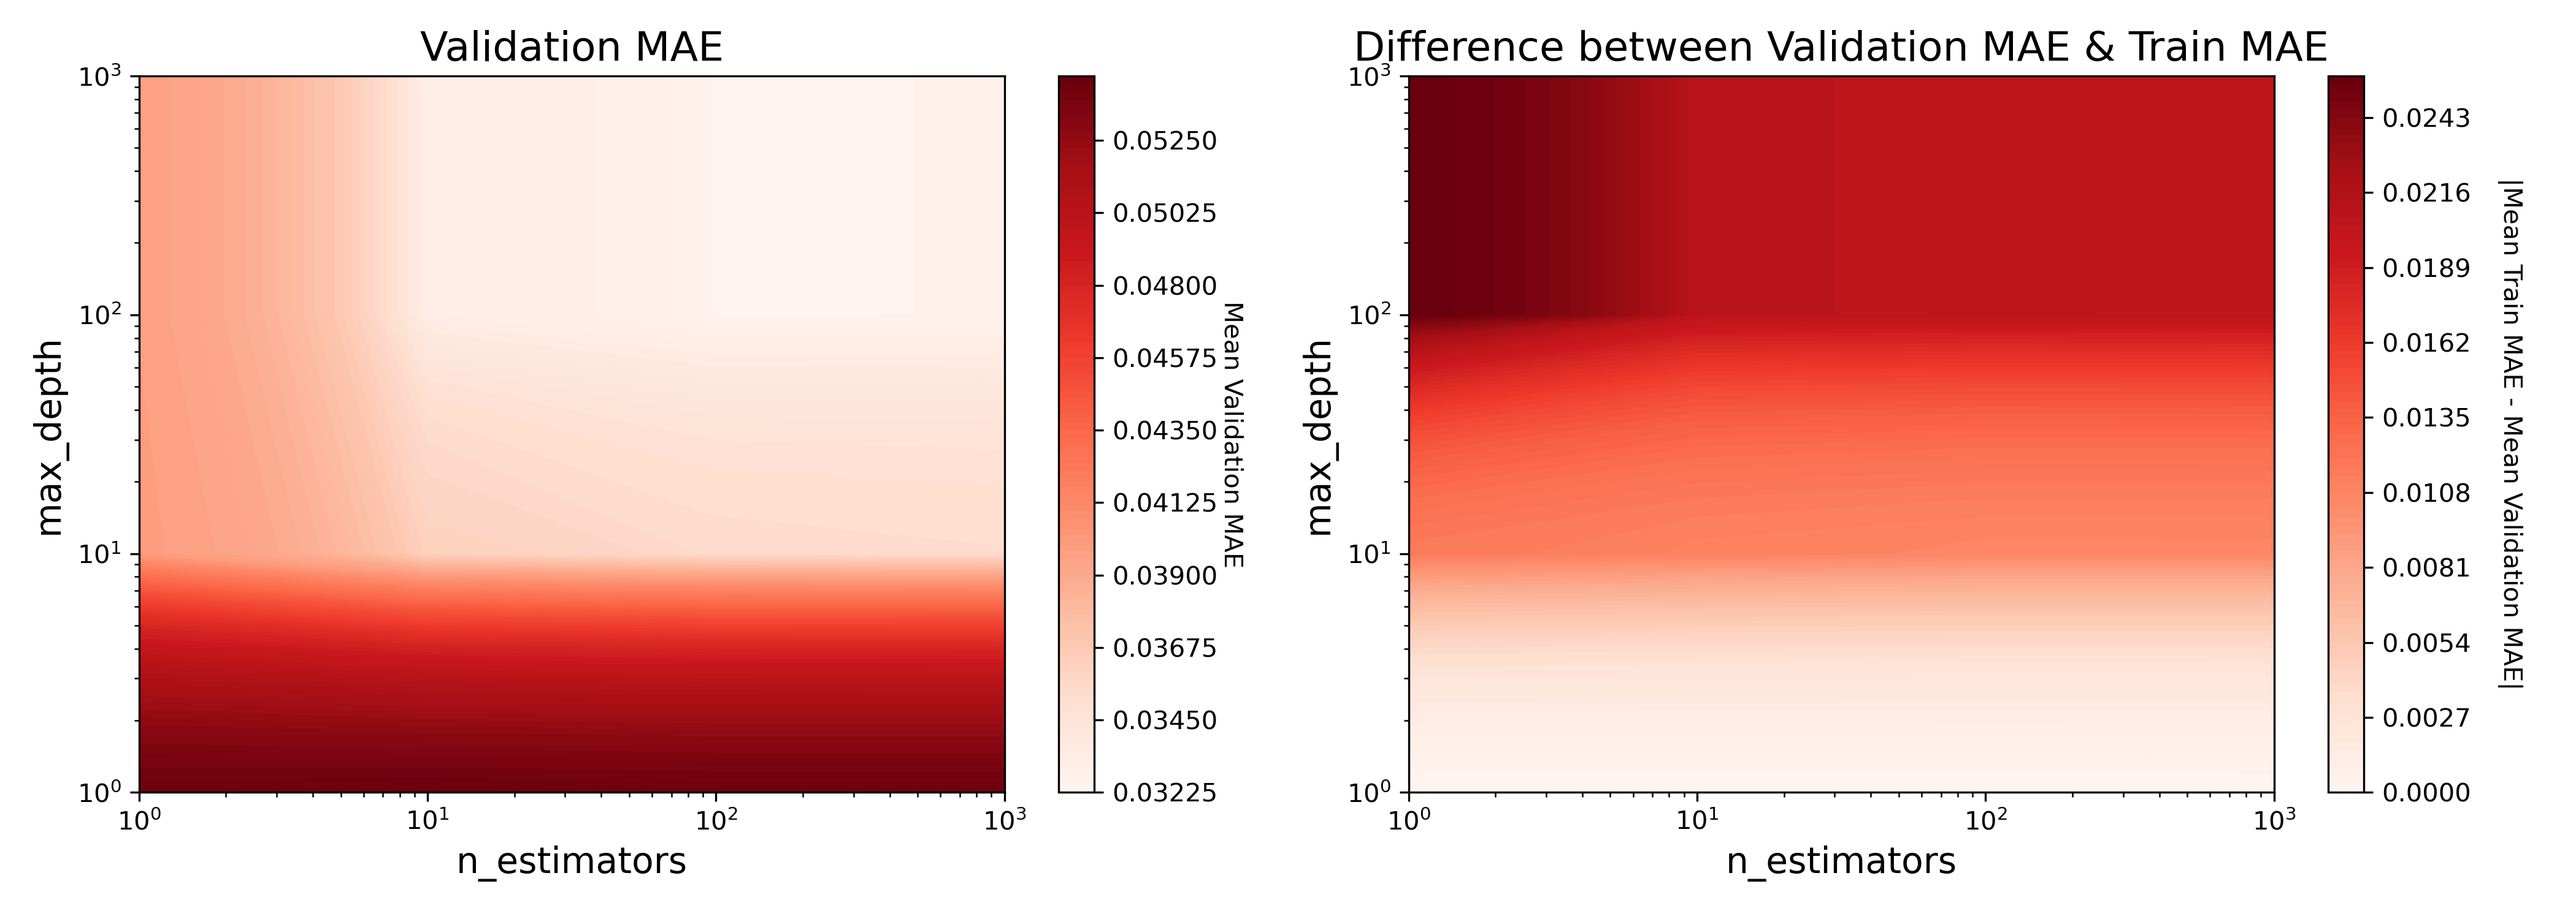
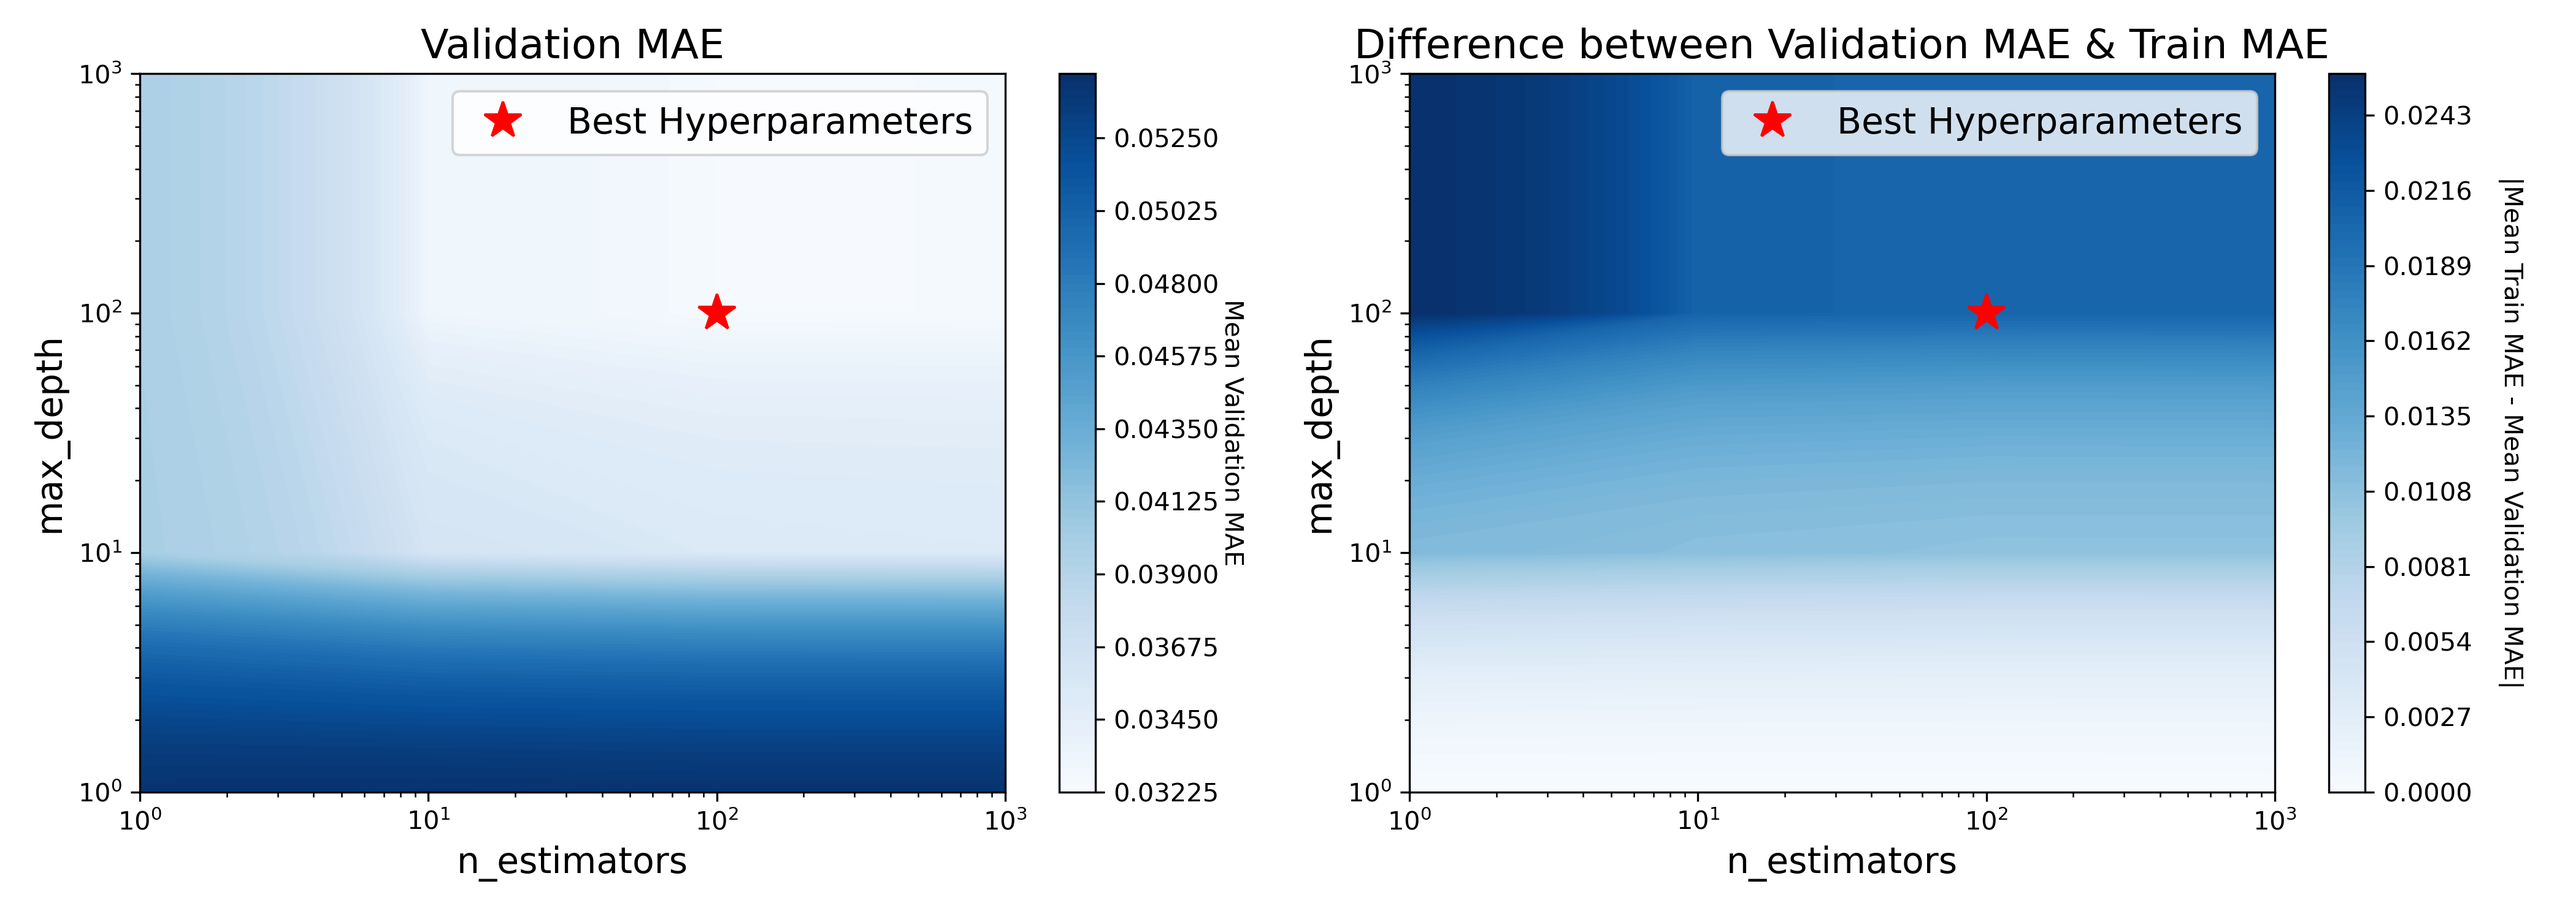
found error in data cleaning (need to exclude bandgap = 0eV)

diff --git a/script4_solarCellSearchTask.py b/script4_solarCellSearchTask.py
@@ -42,6 +42,10 @@ lstFeatureCols_train = dfTrain.columns[intFirstMagpieCol_train:intLastMagpieCol_
 # make the feature set
 dfTrain_x = dfTrain[lstFeatureCols_train]
 print('Training feature set created')
+# make a standardized version of the feature set
+stdScale = StandardScaler()
+dfTrain_x_std = pd.DataFrame(stdScale.fit_transform(dfTrain_x), columns = dfTrain_x.columns, index = dfTrain_x.index)
+print('Training feature set created')
 
 # make the target set
 srTrain_y = dfTrain['bandgap']
@@ -59,9 +63,11 @@ intLastMagpieCol_test = dfTest.columns.get_loc(dfTest.filter(regex='MagpieData')
 lstFeatureCols_test = dfTest.columns[intFirstMagpieCol_test:intLastMagpieCol_test+1].tolist()
 # make the feature set
 dfTest_x = dfTest[lstFeatureCols_test]
+# make a standardized version of the feature set
+dfTest_x_std = pd.DataFrame(stdScale.transform(dfTest_x), columns = dfTest_x.columns, index = dfTest_x.index)
 print('Test feature set created')
 
-
+# make the target set
 srTest_y = dfTest['bandgap']
 print('Test target set created')
 
@@ -111,9 +117,9 @@ for randomSeed in lstRandomSeeds:
                                               max_features = rfReg_max_features_weka,
                                               random_state = randomSeed)
       # fit the model to the training data
-      rfReg_weka_temp_fit = rfReg_weka_temp.fit(dfTrain_x, srTrain_y)
+      rfReg_weka_temp_fit = rfReg_weka_temp.fit(dfTrain_x_std, srTrain_y)
       # predict the bandgap of the test set
-      srTest_yPred_weka_temp = pd.Series(rfReg_weka_temp_fit.predict(dfTest_x), index = dfTest_x.index)
+      srTest_yPred_weka_temp = pd.Series(rfReg_weka_temp_fit.predict(dfTest_x_std), index = dfTest_x.index)
 
       # add the predictions as a new column to the dataframe
       dfTest_yPred_weka['Seed:' + str(randomSeed)] = srTest_yPred_weka_temp
@@ -131,6 +137,8 @@ dfTest_yPred_weka['max-mean'] = dfTest_yPred_weka['max'] - dfTest_yPred_weka['me
 # find the difference between the mean and min and make it a new column in the dataframe
 dfTest_yPred_weka['mean-min'] = dfTest_yPred_weka['mean'] - dfTest_yPred_weka['min']
 print('Production run with WEKA hyperparameters complete')
+# save the dataframe to a csv file
+dfTest_yPred_weka.to_csv('data/script4_out_test_yPred_weka.csv', index=False)
 print('--------------------------------------------------------------------------------------------\n')
 #%%
 # EVALUATION METRICS---------------------------------------------------------------------------------------------------
@@ -182,10 +190,10 @@ np.random.seed(0)
 pipeline_rfReg = make_pipeline(StandardScaler(),RandomForestRegressor(random_state=0))
 
 # make lists for possible values for hyperparameters
-rfReg_n_estimators_totest = [1, 10, 100, 1000]  # number of trees in forest
-rfReg_max_depth_totest = [1, 10, 100, 1000]     # the maximum depth of each tree
-rfReg_min_sample_leaf_totest = [1, 2, 5]                    # minimum number of samples required to be at a leaf node
-rfReg_min_sample_split_totest = [2, 4, 8]                   # minimum number of samples required to be at a leaf node
+rfReg_n_estimators_totest = [1, 5, 10, 50, 100, 500, 1000]  # number of trees in forest
+rfReg_max_depth_totest = [1, 5, 10, 50, 100, 500, 1000]     # the maximum depth of each tree
+rfReg_min_sample_leaf_totest = [1, 5, 10, 50]               # minimum number of samples required to be at a leaf node
+rfReg_min_sample_split_totest = [2, 4, 8, 10]               # minimum number of samples required to be at a leaf node
 rfReg_max_features_totest = [1/4, 1/3, 1/2, 2/3, 3/4, 1]    # number of features to consider when looking for the best split
 
 # put those lists into a dictionary to pass into GridSearchCV
@@ -198,7 +206,7 @@ rfRegParamsGrid = {'randomforestregressor__n_estimators'        :rfReg_n_estimat
 # make the grid search object - to comment out once the grid search has been run
 hpt_rfReg = GridSearchCV(pipeline_rfReg,
                          rfRegParamsGrid,
-                         scoring = 'neg_mean_absolute_error',
+                         scoring = 'neg_root_mean_squared_error',
                          cv = 10,
                          return_train_score = True, 
                          n_jobs = 20)
@@ -244,15 +252,8 @@ print('n_estimators: ', rfReg_n_estimators_best,
 
 # print the best score
 rfReg_score_best = np.array(dfHPT_rfReg.loc[dfHPT_rfReg['rank_test_score'] == 1, 'mean_test_score'])[0]
-print('Best mean absolute error: ', rfReg_score_best)
+print('Best root mean squared error: ', rfReg_score_best*-1)
 
-# # train a model with the best hyperparameters
-# rfReg_best = RandomForestRegressor(n_estimators = rfReg_n_estimators_best,
-#                                    max_depth = rfReg_max_depth_best,
-#                                    min_samples_leaf = rfReg_min_samples_leaf_best,
-#                                    min_samples_split = rfReg_min_samples_split_best,
-#                                    max_features = rfReg_max_features_best,
-#                                    random_state = 0)
 print('--------------------------------------------------------------------------------------------\n')
 
 #%%
@@ -275,8 +276,11 @@ MSE_diff = abs(np.array(np.array((dfHPT_rfReg.loc[(dfHPT_rfReg['param_randomfore
                                                                                                                                                                                                                                                                               (dfHPT_rfReg['param_randomforestregressor__min_samples_split'] == rfReg_min_samples_split_best)]['mean_test_score']*(-1))).reshape(len(rfReg_n_estimators_totest),len(rfReg_max_depth_totest))))
 
 # plot the results of the grid search
-pltHPT_rfReg_mse = ax[0].contourf(X, Y, MSE, 100, cmap='Reds', levels = 100)
-pltHPT_rfReg_mse_diff = ax[1].contourf(X, Y, MSE_diff, 100, cmap='Reds', levels = 100)
+pltHPT_rfReg_mse = ax[0].contourf(X, Y, MSE, 100, cmap='Blues', levels = 100)
+pltHPT_rfReg_mse_diff = ax[1].contourf(X, Y, MSE_diff, 100, cmap='Blues', levels = 100)
+#plot a red star at the best hyperparameters
+ax[0].plot(rfReg_n_estimators_best, rfReg_max_depth_best, 'r*', markersize=15, label='Best Hyperparameters')
+ax[1].plot(rfReg_n_estimators_best, rfReg_max_depth_best, 'r*', markersize=15, label='Best Hyperparameters')
 
 # add title and axis labels
 ax[0].set_title('Validation MAE', fontsize=16)
@@ -290,6 +294,10 @@ ax[1].set_xlabel('n_estimators', fontsize=14)
 ax[1].set_xscale('log')
 ax[1].set_ylabel('max_depth', fontsize=14)
 ax[1].set_yscale('log')
+
+# add legend
+ax[0].legend(loc='upper right', fontsize=14)
+ax[1].legend(loc='upper right', fontsize=14)
 
 # add colorbar
 cbar_rmse = fig.colorbar(pltHPT_rfReg_mse, ax=ax[0])
@@ -316,7 +324,6 @@ dfTest_yPred_best['strComposition'] = lstTestCompositions
 # initialize a counter to keep track of the number of runs
 runCount = 1
 
-
 for randomSeed in lstRandomSeeds:
       print('Run ', runCount, ' of 10')
       # make the random forest regressor
@@ -327,9 +334,9 @@ for randomSeed in lstRandomSeeds:
                                               max_features = rfReg_max_features_best,
                                               random_state = randomSeed)
       # fit the model to the training data
-      rfReg_best_temp_fit = rfReg_best_temp.fit(dfTrain_x, srTrain_y)
+      rfReg_best_temp_fit = rfReg_best_temp.fit(dfTrain_x_std, srTrain_y)
       # predict the bandgap of the test set
-      srTest_yPred_best_temp = pd.SeriesrfReg_best_temp_fit.predict(dfTest_x, index = dfTest_x.index)
+      srTest_yPred_best_temp = pd.Series(rfReg_best_temp_fit.predict(dfTest_x_std), index = dfTest_x.index)
 
       # add the predictions to the dataframe
       dfTest_yPred_best['Seed:' + str(randomSeed)] = srTest_yPred_best_temp
@@ -347,6 +354,9 @@ dfTest_yPred_best['max-mean'] = dfTest_yPred_best['max'] - dfTest_yPred_best['me
 # find the difference between the mean and min and make it a new column in the dataframe
 dfTest_yPred_best['mean-min'] = dfTest_yPred_best['mean'] - dfTest_yPred_best['min']
 print('Production run with the best hyperparameters complete')
+
+# save the dataframe to a csv file
+dfTest_yPred_best.to_csv('data/script4_out_test_yPred_best.csv', index=False)
 print('--------------------------------------------------------------------------------------------\n')
 
 #%%

diff --git a/script2_dataCleaning.py b/script2_dataCleaning.py
@@ -122,7 +122,7 @@ print('Making the dataframe for the solar cell search...\n')
 # select the halogens from OQMD which has had duplicates removed
 dfOQMD_scs = dfOQMD_c[dfOQMD_c['strComposition'].str.contains('F|Cl|Br|I')]
 # select the bandgap values between 0eV/atom and 1.5eV/atom
-dfOQMD_scs = dfOQMD_scs[(dfOQMD_scs['bandgap'] >= 0) & (dfOQMD_scs['bandgap'] < 1.5)]
+dfOQMD_scs = dfOQMD_scs[(dfOQMD_scs['bandgap'] > 0) & (dfOQMD_scs['bandgap'] <= 1.5)]
 print('Solar cell search dataframe made')
 # save the cleaned data to a csv file
 dfOQMD_scs.to_csv('data/script2_out_oqmd_solarCellSearchTask.csv', index=False)
